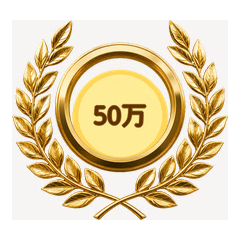
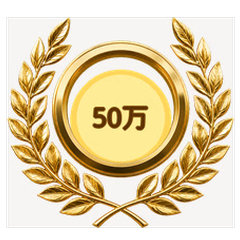
バッジ整列と収益・支援・コラボ実績の確定画像掲載
raw.githack が main を参照するため squash merge。GitHub Pages は有効化していない。

diff --git a/index.html b/index.html
@@ -55,15 +55,15 @@
     </div>
     <div class="wreaths">
       <div class="wreath">
-        <img src="assets/badge-ai.png" alt="AI" />
+        <span class="medal"><img src="assets/badge-ai.png" alt="AI" /></span>
         <strong>AI×SNS</strong><span>テーマ</span>
       </div>
       <div class="wreath">
-        <img src="assets/badge-50man.png" alt="約50万" />
+        <span class="medal"><img src="assets/badge-50man.png" alt="約50万" /></span>
         <strong>約50万</strong><span>総フォロワー</span>
       </div>
       <div class="wreath">
-        <img src="assets/badge-50sha.png" alt="50社" />
+        <span class="medal"><img src="assets/badge-50sha.png" alt="50社" /></span>
         <strong>50社</strong><span>運用代行</span>
       </div>
     </div>
@@ -78,6 +78,14 @@
     <p class="sec-lead">実際の支払い画面と、受講生からの報告です。</p>
     <div class="proof-grid">
       <figure class="proof-card">
+        <img src="assets/proof-revenue.png" alt="収益分配 合計支払い額 $3,956.83" />
+        <figcaption><b>$3,956.83</b><span>収益分配・合計支払い額</span></figcaption>
+      </figure>
+      <figure class="proof-card">
+        <img src="assets/proof-payout.jpg" alt="次の支払い Aug 14, 2026 / $2,308.95 / $875.18" />
+        <figcaption><b>$2,308.95 / $875.18</b><span>次の支払い Aug 14, 2026<br>Jul 18–Aug 1 / Jul 4–Jul 18</span></figcaption>
+      </figure>
+      <figure class="proof-card">
         <img src="assets/proof-revenue-11375.jpg" alt="収益分配 合計支払い額 $11,375.14" />
         <figcaption><b>$11,375.14</b><span>X収益分配・合計支払い額</span></figcaption>
       </figure>
@@ -91,7 +99,7 @@
       </figure>
       <figure class="proof-card wide chat">
         <img src="assets/proof-line-500k.jpg" alt="50万円を超える金額が実際に口座に入っていました" />
-        <figcaption><b>50万円超の振込を確認</b><span>受講生からのLINE報告（AI×SNSアフィリエイト）</span></figcaption>
+        <figcaption><b>50万円超の振込を確認</b><span>受講生からのLINE報告（AI美女アフィリエイト）</span></figcaption>
       </figure>
     </div>
     <p class="note left">※X広告収益プログラム等の支払い画面より。運用実績の一例であり、成果を保証するものではありません。為替により円換算額は変動します。成果には個人差があります。</p>
@@ -115,12 +123,22 @@
         <figcaption>3ヶ月で <b>19.3M</b>（前期比 +355%）</figcaption>
       </figure>
       <figure class="stat-card">
-        <img src="assets/analytics-8m.png" alt="運用8ヶ月 インプレッション 86M / エンゲージメント 838.1K" />
-        <figcaption>運用8ヶ月 <b>86M</b> ／ エンゲージメント 838.1K</figcaption>
+        <img src="assets/analytics-8m.png" alt="1Y インプレッション 86M / フォロワー 16.7K / エンゲージメント 838.1K" />
+        <figcaption>1Y <b>86M</b> ／ フォロワー 16.7K ／ エンゲージメント 838.1K</figcaption>
       </figure>
       <figure class="stat-card">
-        <img src="assets/analytics-3m.png" alt="運用3ヶ月 インプレッション 15.4M / エンゲージメント 139.3K" />
-        <figcaption>運用3ヶ月 <b>15.4M</b> ／ エンゲージメント 139.3K</figcaption>
+        <img src="assets/analytics-3m.png" alt="3M インプレッション 15.4M / エンゲージメント 139.3K" />
+        <figcaption>3M <b>15.4M</b> ／ エンゲージメント 139.3K</figcaption>
+      </figure>
+    </div>
+    <div class="stat-grid">
+      <figure class="stat-card">
+        <img src="assets/proof-analytics.jpg" alt="アカウントのアナリティクス 7D インプレッション数" />
+        <figcaption>7D インプレッションピーク <b>約25万</b></figcaption>
+      </figure>
+      <figure class="stat-card">
+        <img src="assets/voice-follow.png" alt="フォローの推移" />
+        <figcaption>フォローの推移</figcaption>
       </figure>
     </div>
 
@@ -133,12 +151,12 @@
     <div class="tab-lbl">受講生の声</div>
     <div class="voice-grid">
       <figure class="voice-card">
-        <div class="vtab">開始3日 — インプ・フォロワー増加</div>
-        <img src="assets/voice-dm1.png" alt="" />
-        <figcaption>「アドバイスのように行動したら、インプもフォロワーもそれまでと桁違いに増えました」</figcaption>
+        <div class="vtab">無料相談後 — インプもフォロワーも桁違い</div>
+        <img src="assets/voice-dm1.png" alt="ガガロットさんへのDM：無料相談後にインプもフォロワーも桁違い" />
+        <figcaption>「アドバイスのように行動したら、インプもフォロワーさんもそれまでと桁違いに増えてました」</figcaption>
       </figure>
       <figure class="voice-card">
-        <div class="vtab">コンサル1ヶ月 — 月収 52万円</div>
+        <div class="vtab">コンサル1ヶ月 — 先月の収益 52万円</div>
         <img src="assets/voice-dm2.png" alt="" />
         <figcaption>「先月の収益は52万円でした。指示通りに動いただけで、この結果が出て驚いています」</figcaption>
       </figure>
@@ -148,21 +166,15 @@
         <figcaption>「スキルエンジン入会3ヶ月目、収益725,000円でした！」</figcaption>
       </figure>
       <figure class="voice-card">
-        <div class="vtab">「マジで勧める」— 受講生の推薦ポスト</div>
-        <img src="assets/voice-dm4.png" alt="" />
-        <figcaption>受講生が自発的にXで推薦。ノウハウの再現性が外部からも評価されています。</figcaption>
+        <div class="vtab">りゅうた（@Ryota_20040222）— ガガコンサル</div>
+        <img src="assets/voice-dm4.png" alt="りゅうた @Ryota_20040222 の推薦ポストとスキルエンジンDiscord、音声通話 1:32:51" />
+        <figcaption>Xの推薦ポストとDM。スキルエンジンDiscord、音声通話 1:32:51。</figcaption>
       </figure>
     </div>
-    <div class="stat-grid">
-      <figure class="stat-card">
-        <img src="assets/voice-follow.png" alt="フォロワーの推移" />
-        <figcaption>フォロワーの推移 — 指導後の立ち上がり</figcaption>
-      </figure>
-      <figure class="stat-card">
-        <img src="assets/voice-analytics.png" alt="受講生アカウントのアナリティクス" />
-        <figcaption>受講生アカウントのアナリティクス</figcaption>
-      </figure>
-    </div>
+    <figure class="stat-card wide">
+      <img src="assets/voice-analytics.png" alt="受講生アカウントのアナリティクス" />
+      <figcaption>受講生アカウントのアナリティクス</figcaption>
+    </figure>
     <p class="note left">※実際のXアナリティクス画面の表示値です。掲載は運用期間1〜3ヶ月および継続運用アカウントの実績を含みます。成果には個人差があります。</p>
   </section>
 
@@ -173,28 +185,30 @@
     <h2><span class="em-gold">著名人・企業</span><br>コラボ実績</h2>
     <p class="sec-lead">業界トップクラスの著名人・企業を、サポートしています。</p>
     <div class="collab-grid">
-      <article class="collab">
-        <div class="photo"><img src="assets/collab-evelyn.png" alt="馬瓜エブリン様" /></div>
+      <article class="collab wide">
+        <div class="photo-row">
+          <div class="photo"><img src="assets/collab-evelyn.png" alt="馬瓜エブリン様" /></div>
+          <div class="photo"><img src="assets/collab-evelyn-selfie.png" alt="馬瓜エブリン様とガガロット" /></div>
+        </div>
         <h3>馬瓜エブリン 様</h3>
-        <div class="tag-en">Olympian / Basketball</div>
+        <div class="tag-en">オリンピック選手／バスケットボール日本代表</div>
         <p>Xアカウントの丸投げ運用に対応。投稿企画・原稿作成・投稿管理・反応分析までを一括で支援。</p>
       </article>
       <article class="collab">
         <div class="photo"><img src="assets/collab-ryuji.png" alt="料理研究家リュウジ様" /></div>
         <h3>料理研究家 リュウジ 様</h3>
-        <div class="tag-en">Tie-up Campaign</div>
+        <div class="tag-en">タイアップ企画</div>
         <p>タイアップ企画に参画。企画設計と発信支援で、著名クリエイターとの接点を活かした施策を実行。</p>
       </article>
       <article class="collab">
         <div class="photo logo"><img src="assets/collab-itochu-familymart.png" alt="伊藤忠商事 × ファミリーマート" /></div>
         <h3>伊藤忠商事 様</h3>
-        <div class="tag-en">Tie-up Campaign</div>
+        <div class="tag-en">タイアップ企画</div>
         <p>ファミリーマートとのタイアップ企画に参画。大手企業案件のSNS施策を担当。</p>
       </article>
-      <article class="collab">
-        <div class="photo"><img src="assets/collab-loglass.png" alt="玉川大学 × Loglass" /></div>
+      <article class="collab wide">
         <h3>玉川大学 × Loglass</h3>
-        <div class="tag-en">System / AI Development</div>
+        <div class="tag-en">バスケットボールシステム／AI開発</div>
         <p>バスケットボール領域のシステム開発からAI開発まで、業務委託として参画。</p>
       </article>
     </div>

diff --git a/style.v2.css b/style.v2.css
@@ -262,22 +262,43 @@ h1 {
 }
 .wreaths {
   display: grid;
-  grid-template-columns: 1fr 1fr 1fr;
-  gap: 4px;
+  grid-template-columns: repeat(3, 1fr);
+  gap: 6px;
   margin: 6px 0 8px;
+  align-items: start;
 }
-.wreath { text-align: center; padding: 0 2px 6px; }
-.wreath img {
-  width: 108px; height: 108px;
-  margin: 0 auto 2px;
+.wreath {
+  display: flex;
+  flex-direction: column;
+  align-items: center;
+  text-align: center;
+  padding: 0 2px 6px;
+}
+.wreath .medal {
+  width: 108px;
+  height: 108px;
+  margin: 0 auto 4px;
+  display: grid;
+  place-items: center;
+  flex-shrink: 0;
+}
+.wreath .medal img {
+  width: 108px;
+  height: 108px;
   object-fit: contain;
-  object-position: center;
+  object-position: center center;
   display: block;
   filter: drop-shadow(0 8px 12px rgba(202,138,4,.32));
 }
-.wreaths { align-items: start; }
-.wreath strong { min-height: 2.5em; display: flex; align-items: center; justify-content: center; }
-.wreath strong { display: block; font-size: 12px; line-height: 1.25; font-weight: 900; }
+.wreath strong {
+  display: flex;
+  align-items: center;
+  justify-content: center;
+  min-height: 2.6em;
+  font-size: 12px;
+  line-height: 1.25;
+  font-weight: 900;
+}
 .wreath span { font-size: 10px; color: var(--muted); font-weight: 800; }
 .cta-inline { margin: 12px 0 0; }
 .cta {
@@ -488,6 +509,7 @@ footer a { color: #2563eb; }
 .proof-card figcaption span { display: block; }
 .proof-card.wide, .stat-card.wide { grid-column: 1 / -1; }
 .stat-card.wide { margin-bottom: 4px; }
+.voice-grid + .stat-card.wide { margin-top: 8px; }
 .stat-card figcaption b { display: inline; font-size: 13px; color: #2563eb; }
 .voice-card .vtab {
   font-size: 10px; font-weight: 900; color: #4f46e5;
@@ -501,6 +523,10 @@ footer a { color: #2563eb; }
   background: #fff; border: 1px solid var(--line); border-radius: 14px;
   padding: 10px 10px 12px;
   box-shadow: 0 8px 18px rgba(80,90,180,.06);
+}
+.collab.wide { grid-column: 1 / -1; }
+.collab .photo-row {
+  display: grid; grid-template-columns: 1fr 1fr; gap: 6px;
 }
 .collab .photo {
   aspect-ratio: 4 / 3; border-radius: 10px; overflow: hidden;
